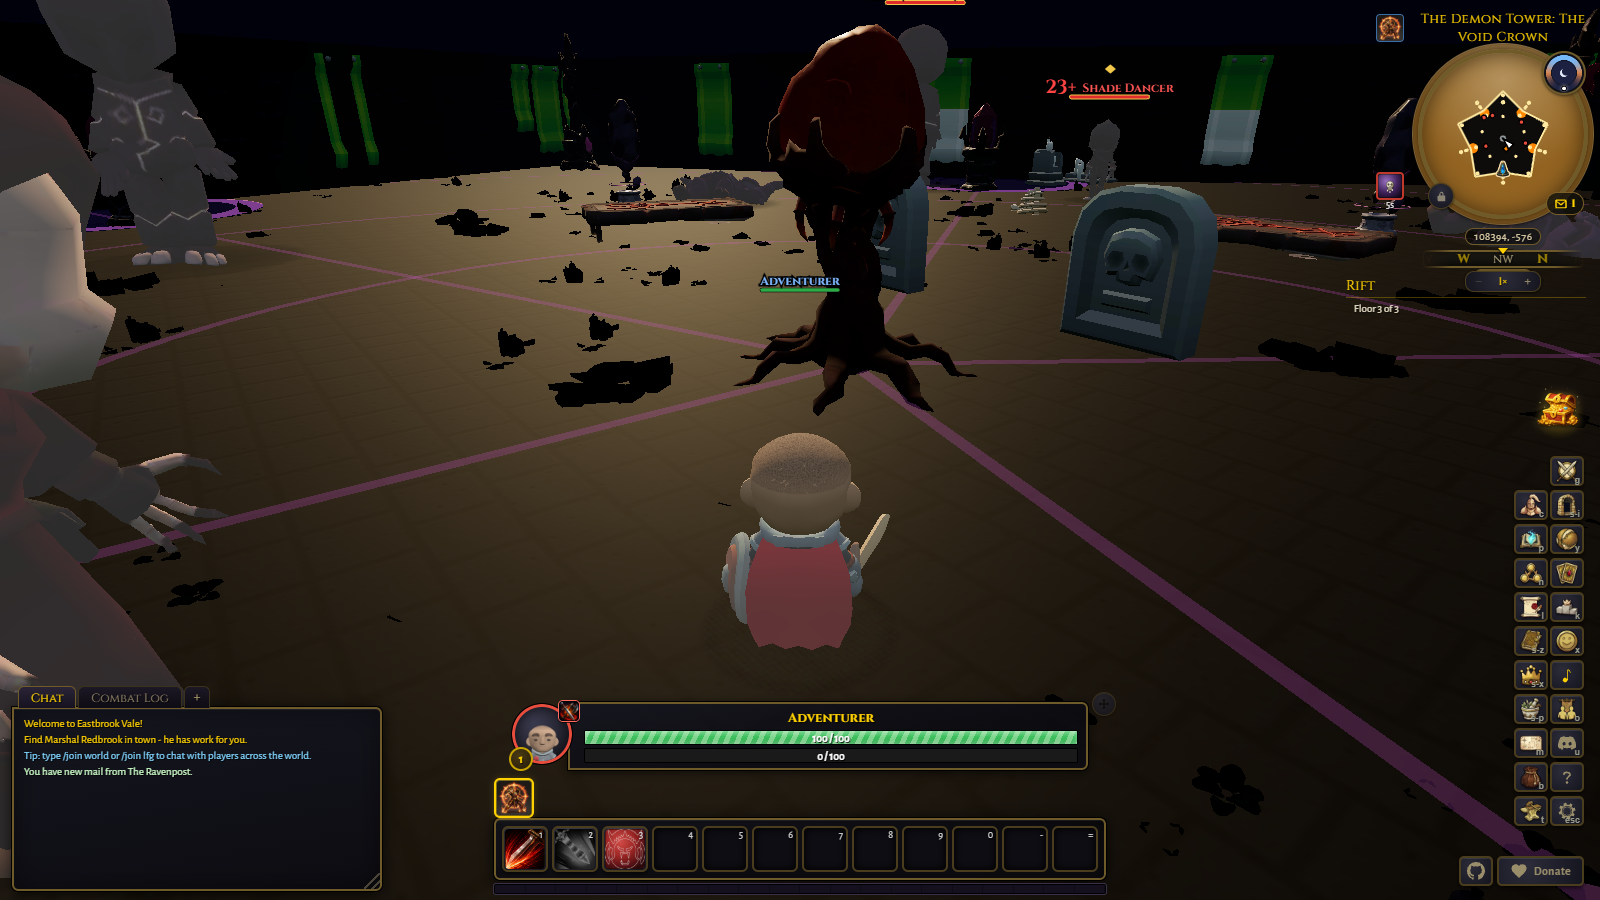
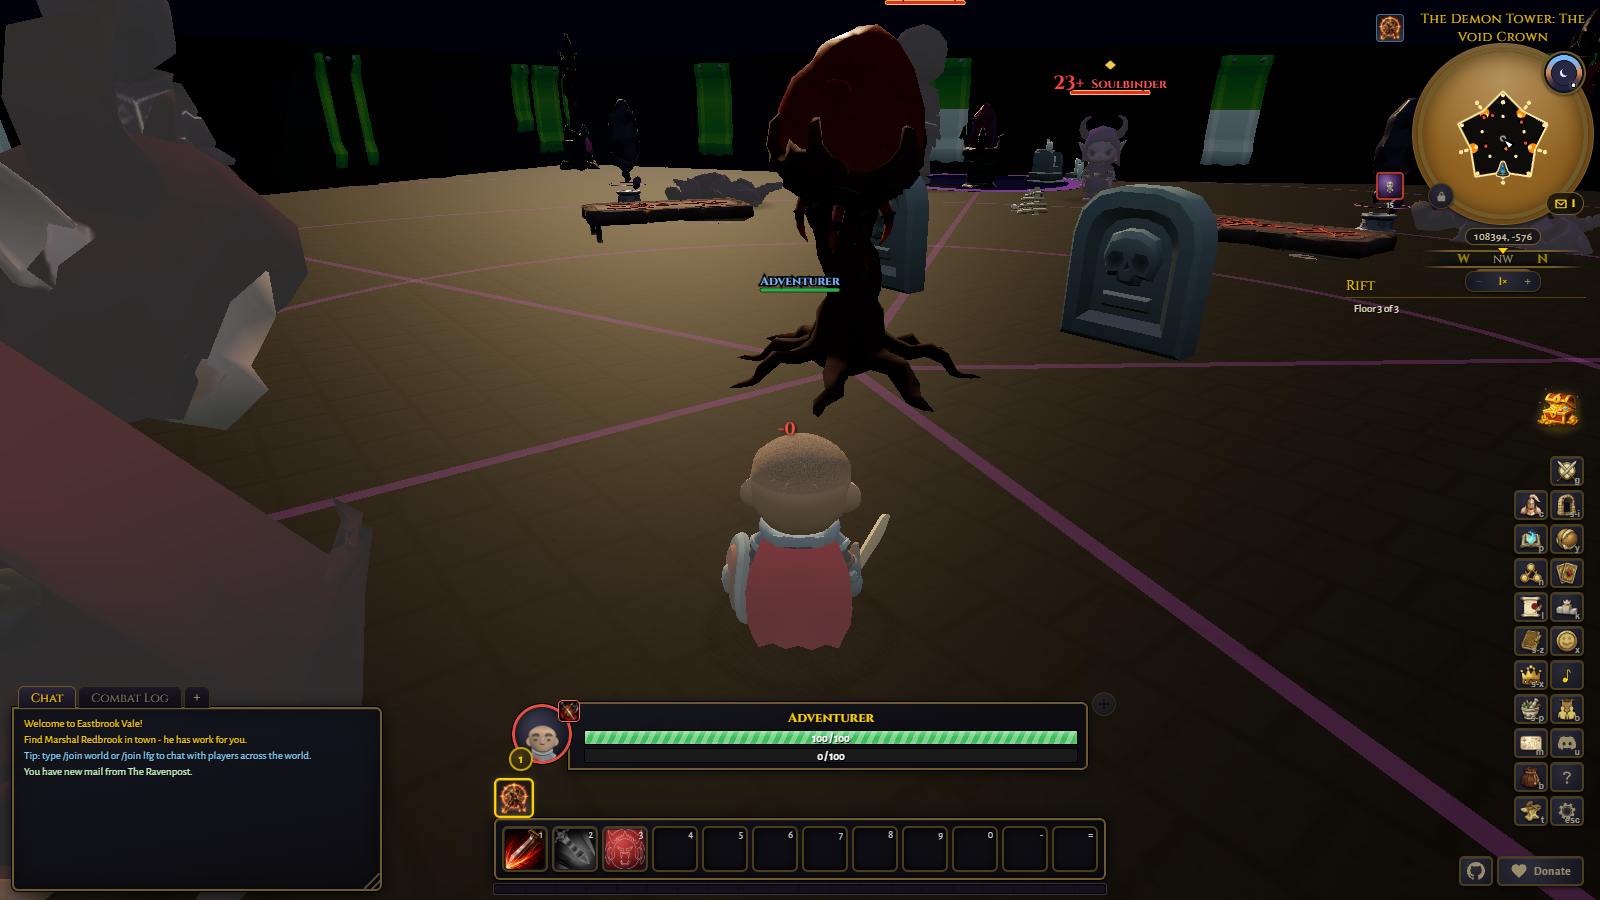
fix(render): remove Tower floor depth artifacts
Stop the generic dungeon tile layer from rendering beneath authored Tower floors. The overlapping surfaces caused large dark patches to pop as the camera moved, so the Tower now keeps one continuous surface.

diff --git a/tests/demon_tower_render_integration.test.ts b/tests/demon_tower_render_integration.test.ts
@@ -14,6 +14,35 @@ import { DungeonInteriors } from '../src/render/dungeon';
 import { buildDemonTowerFloor, DEMON_TOWER_SEED } from '../src/sim/content/rift/demon_tower';
 
 describe('demon tower render integration', () => {
+  it('does not stack the generic tile floor under the authored Tower surface', async () => {
+    const hazardStyles = ['tower_lava', 'soul', 'void'] as const;
+    for (const [floorIndex, hazardStyle] of hazardStyles.entries()) {
+      const floor = buildDemonTowerFloor(DEMON_TOWER_SEED, 20, 20, floorIndex);
+      const scene = new THREE.Scene();
+      const interiors = new DungeonInteriors(scene, true, [], []);
+      const placeFloor = vi.spyOn(
+        interiors as unknown as {
+          placeFloor(...args: unknown[]): void;
+        },
+        'placeFloor',
+      );
+
+      const group = await interiors.buildInterior(floor.style.kit, 0, 0, {
+        layout: { ...floor.layout, decor: [] },
+        style: floor.style,
+        hazards: floor.hazards,
+        hazardStyle,
+      });
+
+      expect(placeFloor, `floor ${floorIndex + 1} generic tiles`).not.toHaveBeenCalled();
+      let authoredFloors = 0;
+      group.traverse((child) => {
+        if (child.userData.towerEssential === 'floor') authoredFloors++;
+      });
+      expect(authoredFloors, `floor ${floorIndex + 1} authored surface`).toBe(1);
+    }
+  });
+
   it('keeps every hazard pool and rim in the real low-tier interior build', async () => {
     const styles = ['lava', 'soul', 'void'] as const;
     for (const [index, hazardStyle] of styles.entries()) {

diff --git a/src/render/dungeon.ts b/src/render/dungeon.ts
@@ -886,7 +886,10 @@ export class DungeonInteriors {
       return group;
     }
 
-    this.placeFloor(p, layout, variant);
+    // Tower scene profiles already provide one continuous authored surface.
+    // Stacking the modular tile kit under it creates coplanar depth fights that
+    // pop as large dark patches when the camera moves.
+    if (!opts?.style?.sceneProfile) this.placeFloor(p, layout, variant);
     this.placeWalls(p, layout, variant, arenaWalls);
     this.placePillarsAndTorches(group, p, layout, variant, torch);
     this.placeTombs(p, layout, variant);
